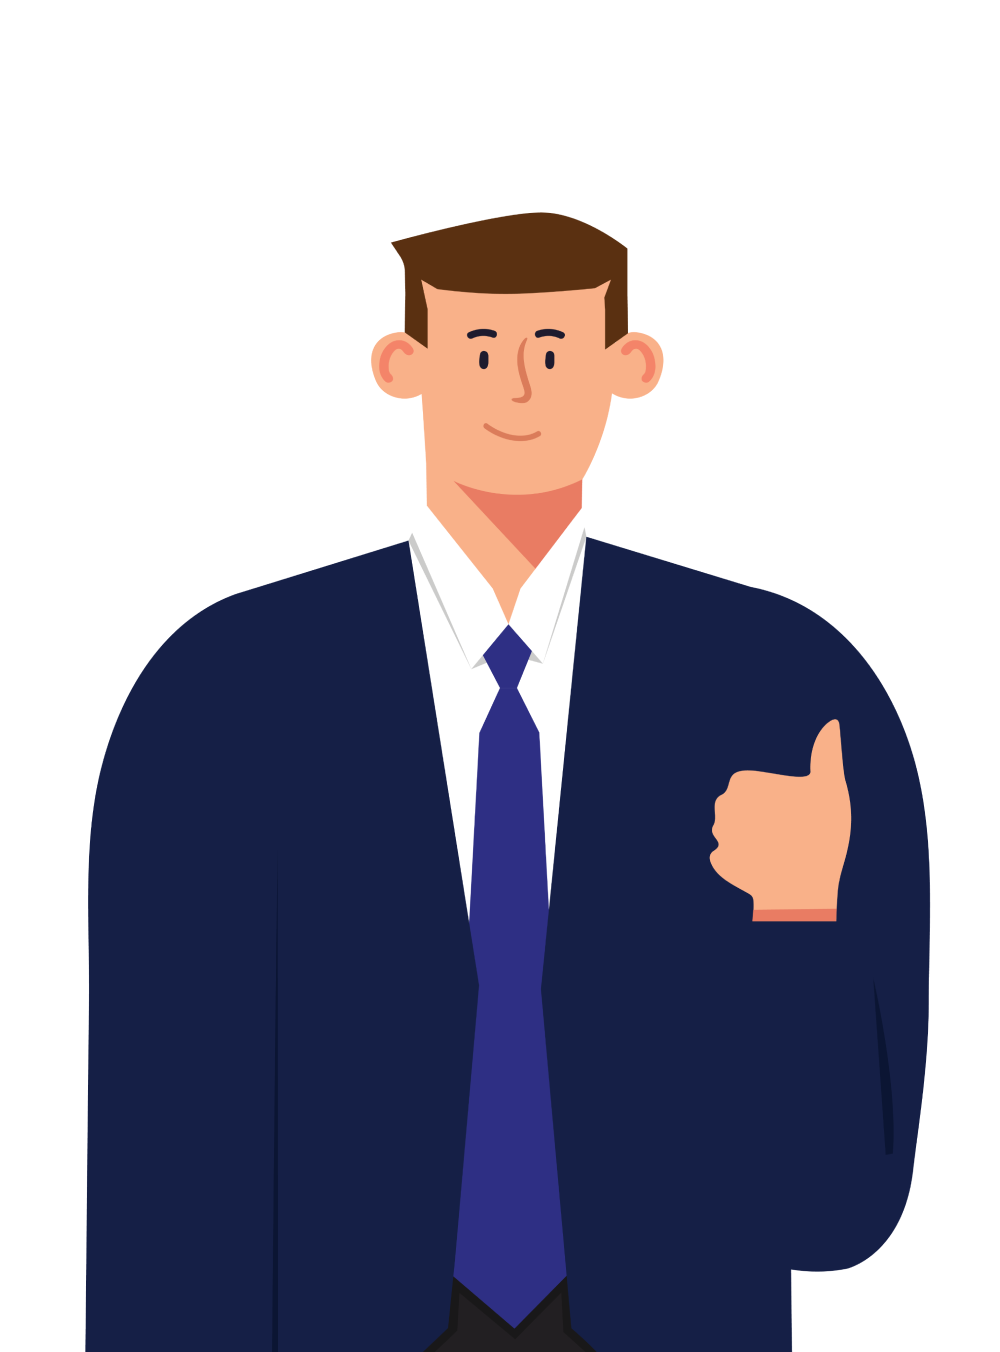
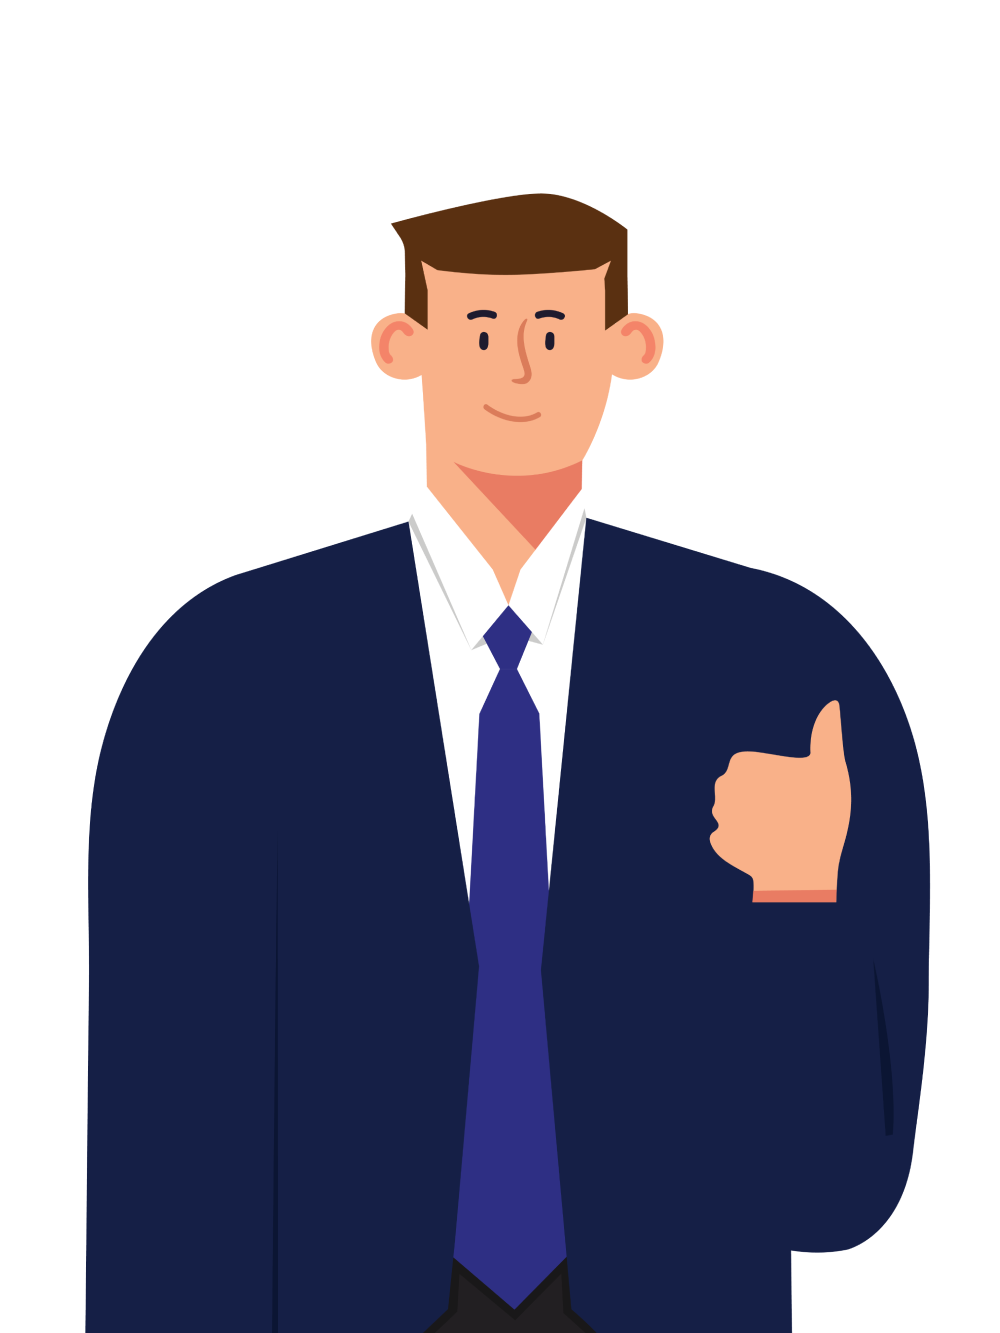
Member section updated saturday

diff --git a/sass/components.scss b/sass/components.scss
@@ -363,10 +363,10 @@
             grid-column: 1/2;
             grid-row: 3/4;
         }
-        .card .image-avatar     {
+        .card .image-avatar {
             width: 240px;
             position: absolute;
-            bottom: 210px;
+            top: -320px;
             left: 35px;
         }
         // Card active
@@ -386,7 +386,7 @@
         }
         .card-slider .card .image-avatar {
             width: 260px;
-            bottom: -20px;
+            top: -162px;
             right: 0;
             grid-column: 2/3;
             grid-row: 1/4;

diff --git a/style.css b/style.css
@@ -974,7 +974,7 @@
 #miembro-hub .card-slider .card .image-avatar {
   width: 240px;
   position: absolute;
-  bottom: 210px;
+  top: -320px;
   left: 35px;
 }
 #miembro-hub .card-slider .card.active {

diff --git a/sass/layout.scss b/sass/layout.scss
@@ -343,6 +343,7 @@
     }
     .title-secondary {
         max-width: 360px;
+        margin-bottom: 0;
     }
     .card-slider {
         gap: 12px;
